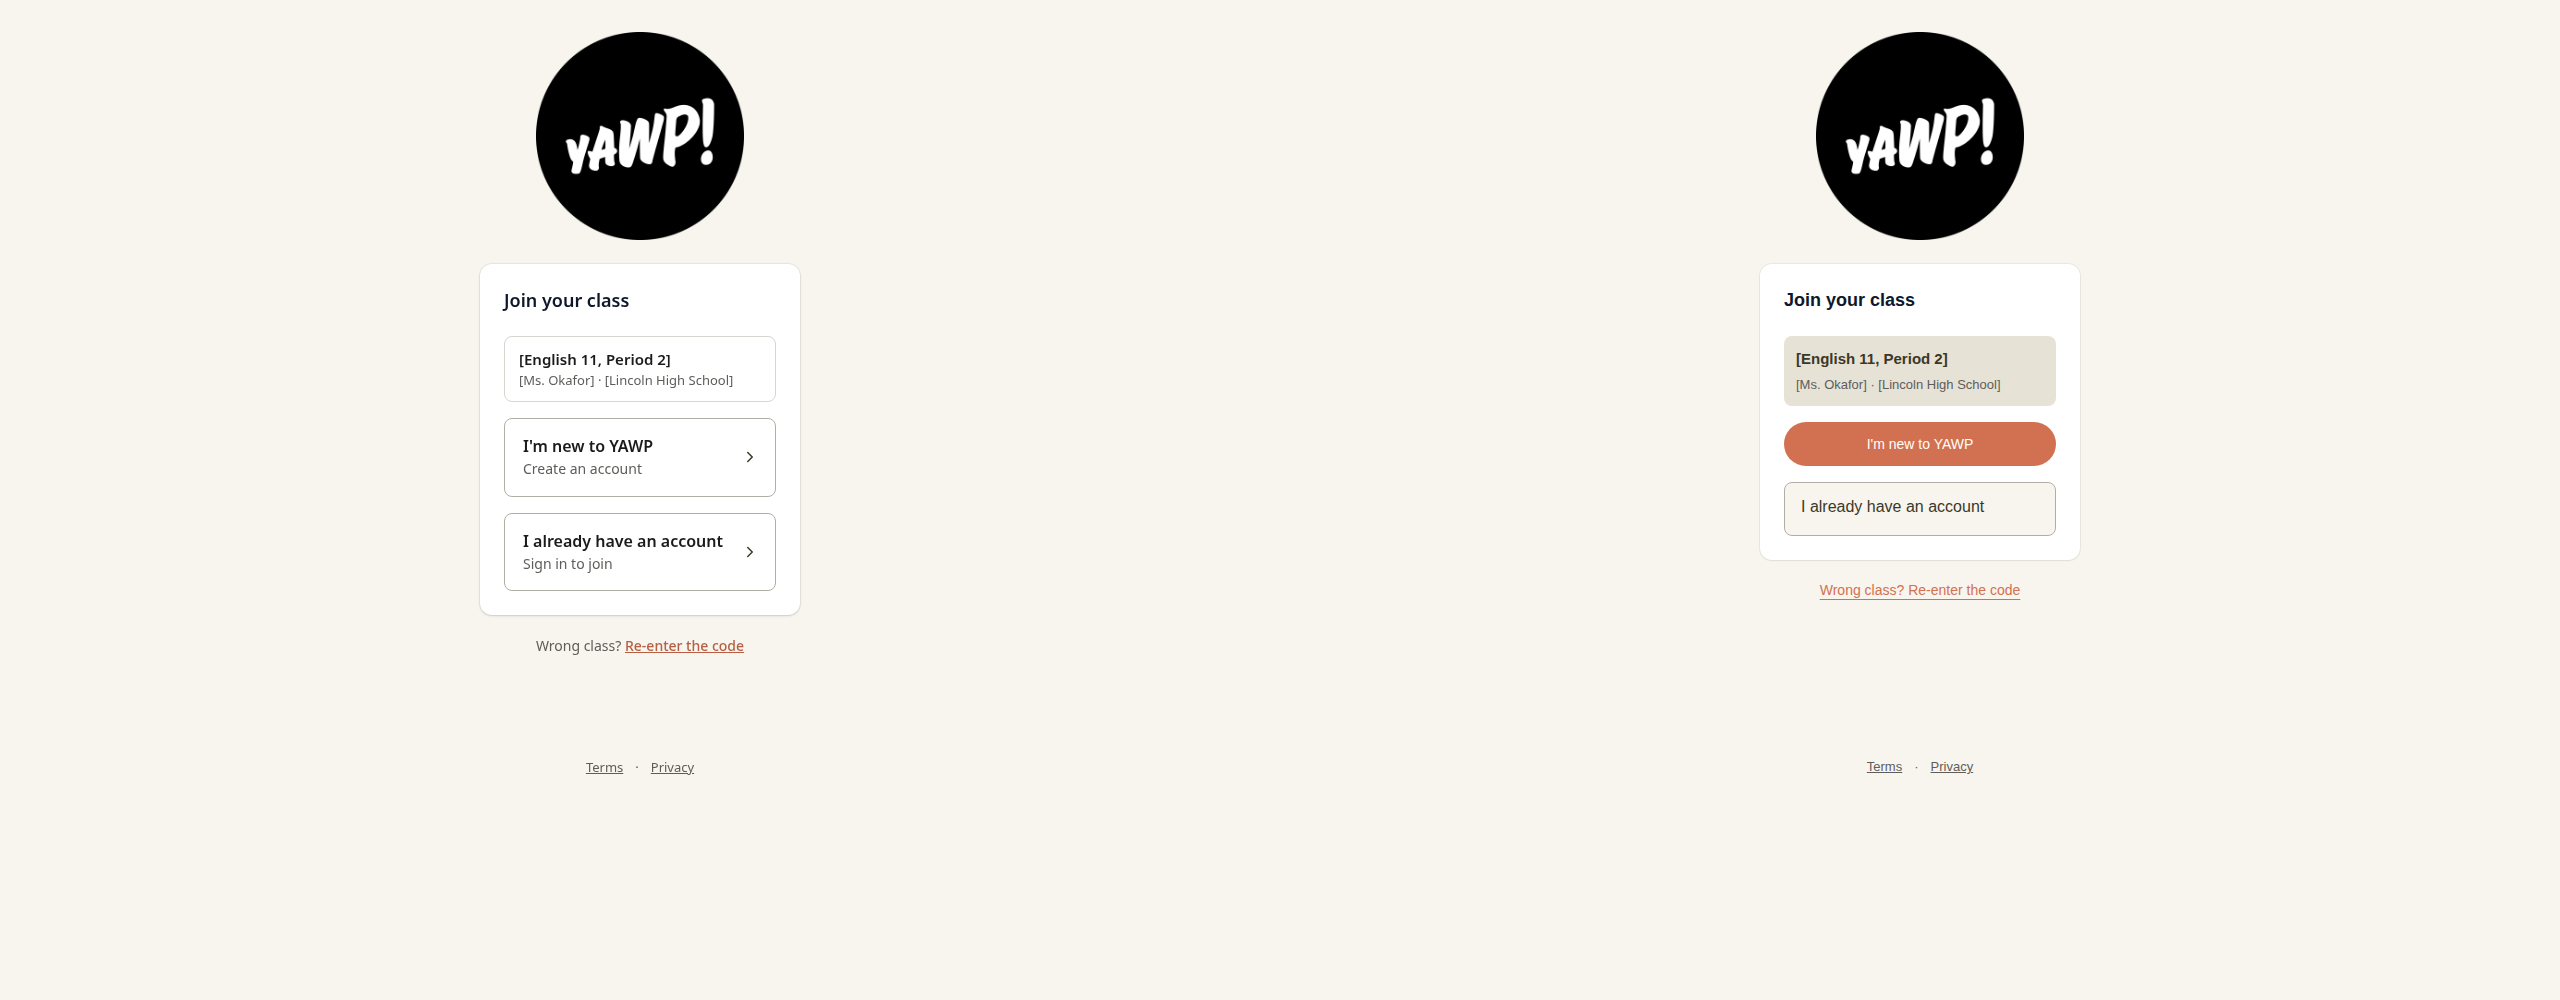
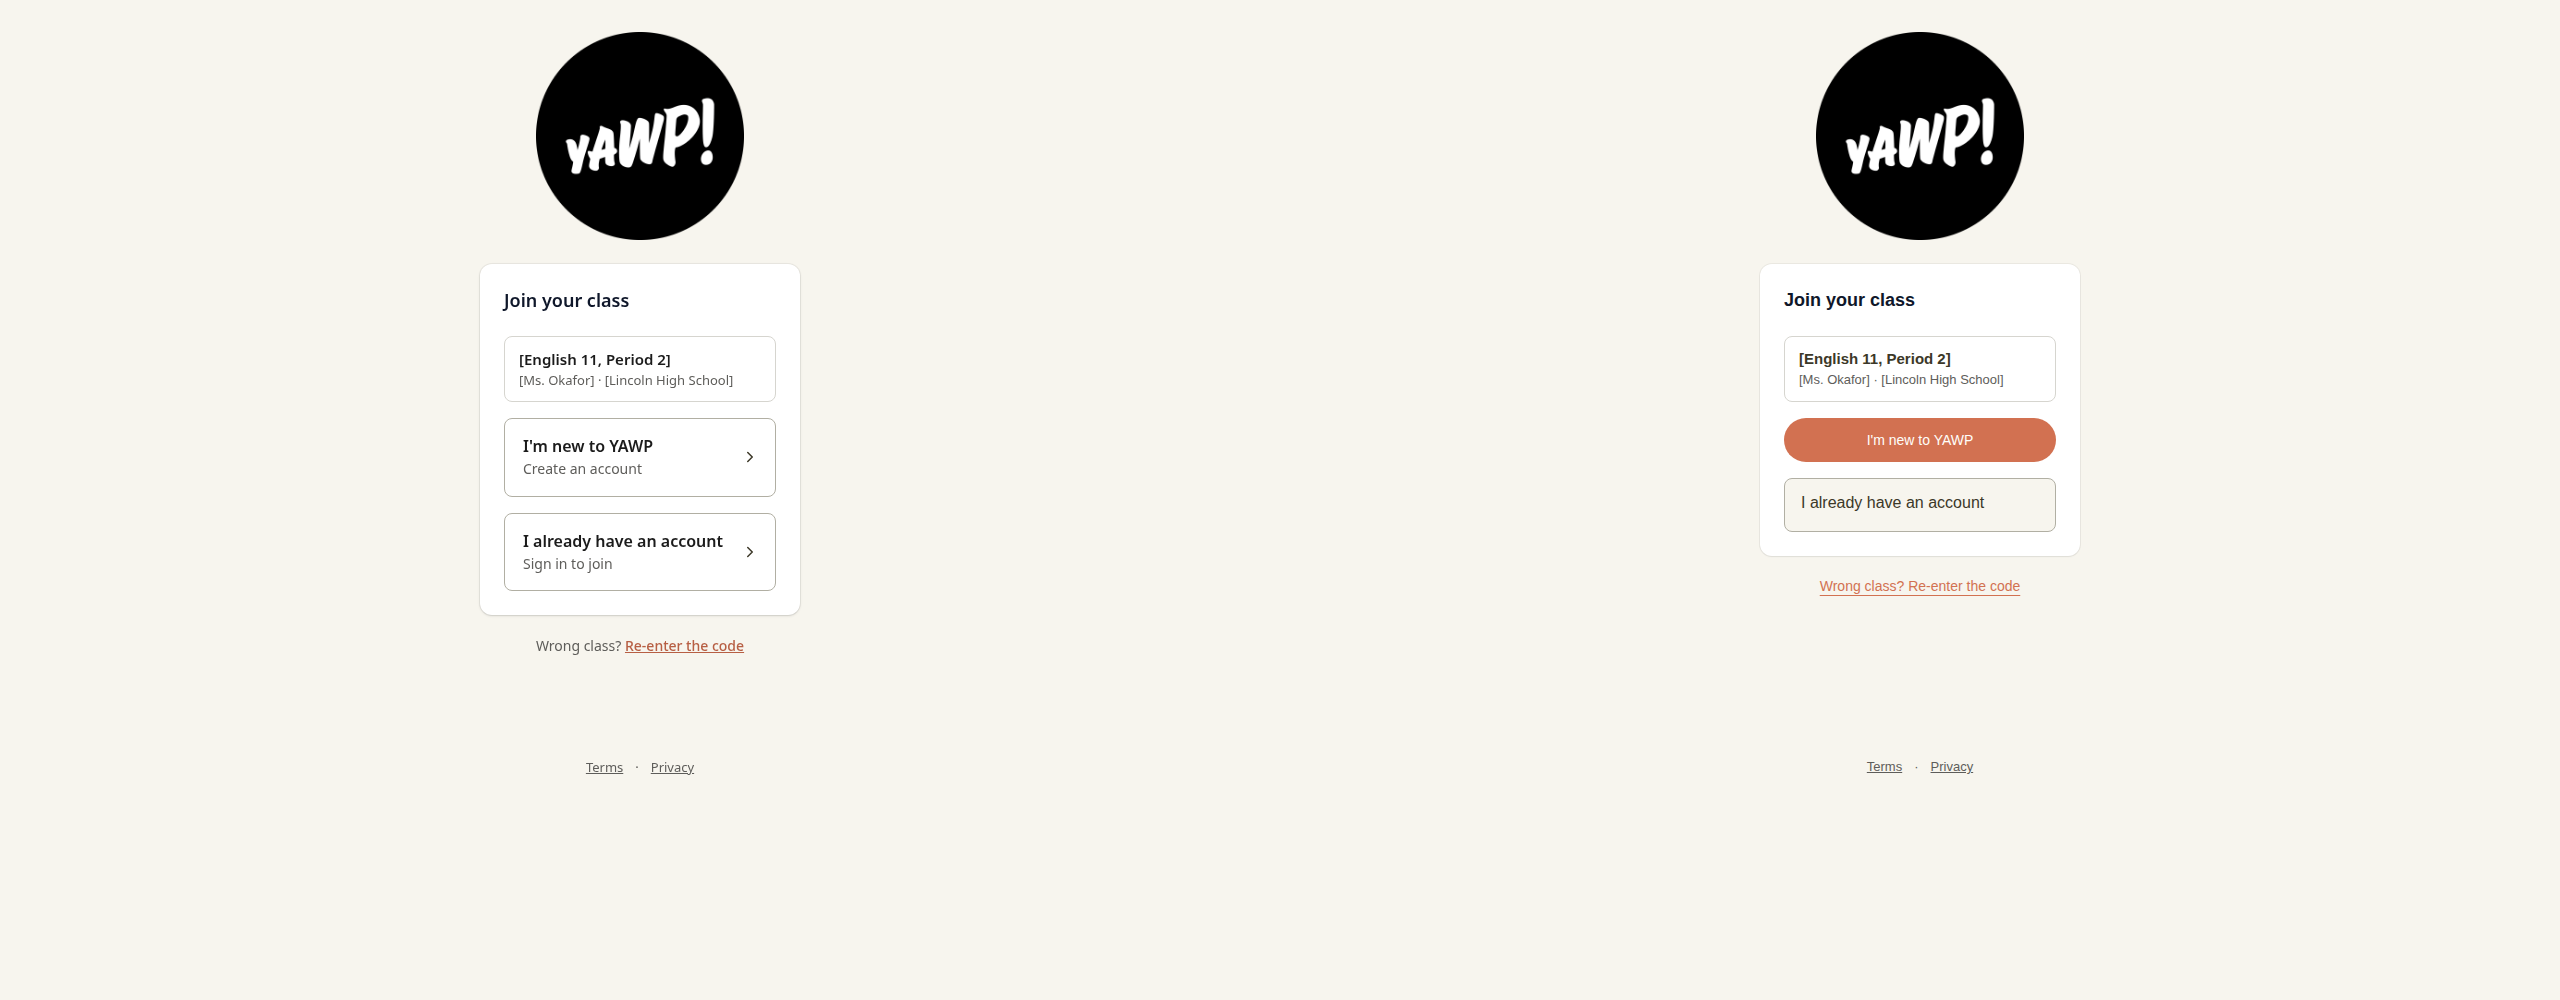
docs: refresh status and class-summary design comparisons

Changed region(s): [[0.6875, 0.31, 0.8125, 0.465], [0.7188, 0.558, 0.7812, 0.62], [0.6875, 0.496, 0.7812, 0.527]]

diff --git a/docs/design/unified-signon.md b/docs/design/unified-signon.md
@@ -153,3 +153,39 @@ for this presentation/fixture/test-only correction. Hosted QA remains omitted.
 One intermediate broad screenshot run had a local Chromium
 `ERR_NETWORK_CHANGED` loading fixture modules; its remaining 11 tests passed.
 Final results are recorded in the lane evidence `checks/review-fixes/`.
+
+
+## Remaining status/card review corrections (di-signon-ui)
+
+The second REJECT in `state/REVIEW.md` identified missing status badges and the
+shared class-summary treatment. Trial status now uses a clock for waitlist,
+administrator-pending and manual-review states, an envelope for an invitation,
+and information for rejected/expired requests. Inactive-account screens use
+information; joined screens use the circled check. Each decorative badge uses
+the existing secondary/foreground tokens, a 40px circle and a 22px Lucide icon,
+with 8px to the heading. Status copy sits 8px below its heading; actions sit
+24px below the copy. Empty action forms no longer add space to read-only statuses.
+
+Class summaries now use the shared white auth-card surface, the existing border
+token at 1px, 12px vertical/14px horizontal padding, and a 2px content gap.
+The DOM exports specify 20px class-name and 18px detail lines; these keep the
+summary content at the reference's 40px height before padding/border. These
+changes apply only inside the default-off unified UI. Shared legacy auth
+components, server operations, validators and settings remain unchanged.
+
+Desktop/mobile regression assertions cover every trial/inactive/joined fixture's
+icon choice, badge size, header/copy/action gaps, and class-summary geometry in
+all seven consuming screen families. The badge assertion failed before the fix;
+the additional line-height assertion caught inherited 22.5px text before the
+spacing correction. Final validation: 90 targeted flag/login unit/route tests,
+project CLI typecheck, and all 14 standalone Playwright tests pass with one
+worker. All 210 viewport captures are refreshed; 98 affected comparisons across
+18 artboards are committed. Prior affected evidence is preserved in the lane's
+`status-card-fixes/before/`; final logs are `status-card-*-final.log` and
+`status-card-targeted.log`. The manifest's `statusCardReviewFixes` links this set.
+
+Server-backed compatibility/status browser checks and the six identical flag-off
+comparisons remain the earlier evidence; these were not rerun for this scoped
+presentation correction. Hosted QA remains omitted under the preview ban.
+PR 3 contracts and all remote feature settings remain unchanged. Repeat Ship
+Review and check final CI before the driver handles rebase, merge lock and merge.
